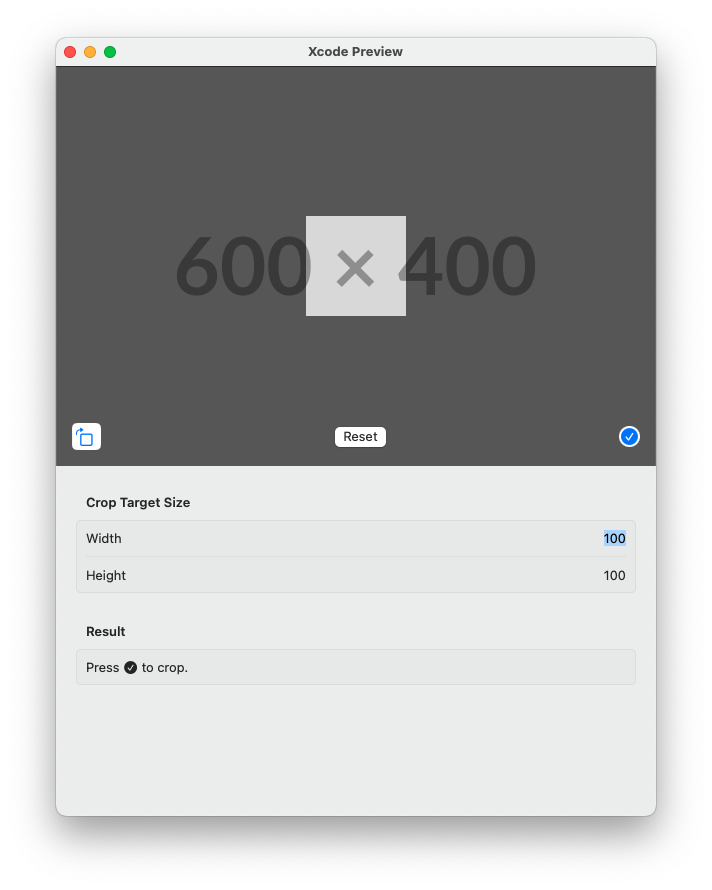
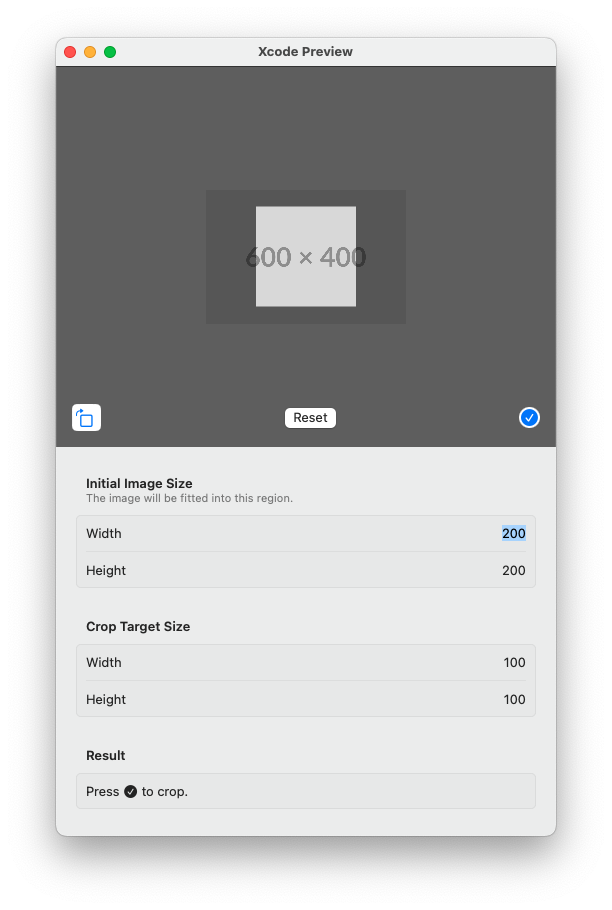
doc: Update preview image.

diff --git a/Sources/CropImage/CropImageView.swift b/Sources/CropImage/CropImageView.swift
@@ -145,14 +145,14 @@ public struct CropImageView<Controls: View>: View {
     }
 
     public var body: some View {
-        ZStack {
-            UnderlyingImageView(
-                offset: $offset,
-                scale: $scale,
-                rotation: $rotation,
-                image: image,
-                initialImageSize: initialImageSize
-            )
+        UnderlyingImageView(
+            offset: $offset,
+            scale: $scale,
+            rotation: $rotation,
+            image: image,
+            initialImageSize: initialImageSize
+        )
+        .overlay( ZStack {
             RectHoleShape(size: targetSize)
                 .fill(style: FillStyle(eoFill: true))
                 .foregroundColor(.black.opacity(0.6))
@@ -165,7 +165,7 @@ public struct CropImageView<Controls: View>: View {
                     onCrop(.failure(error))
                 }
             }
-        }
+        } )
     }
 }
 
